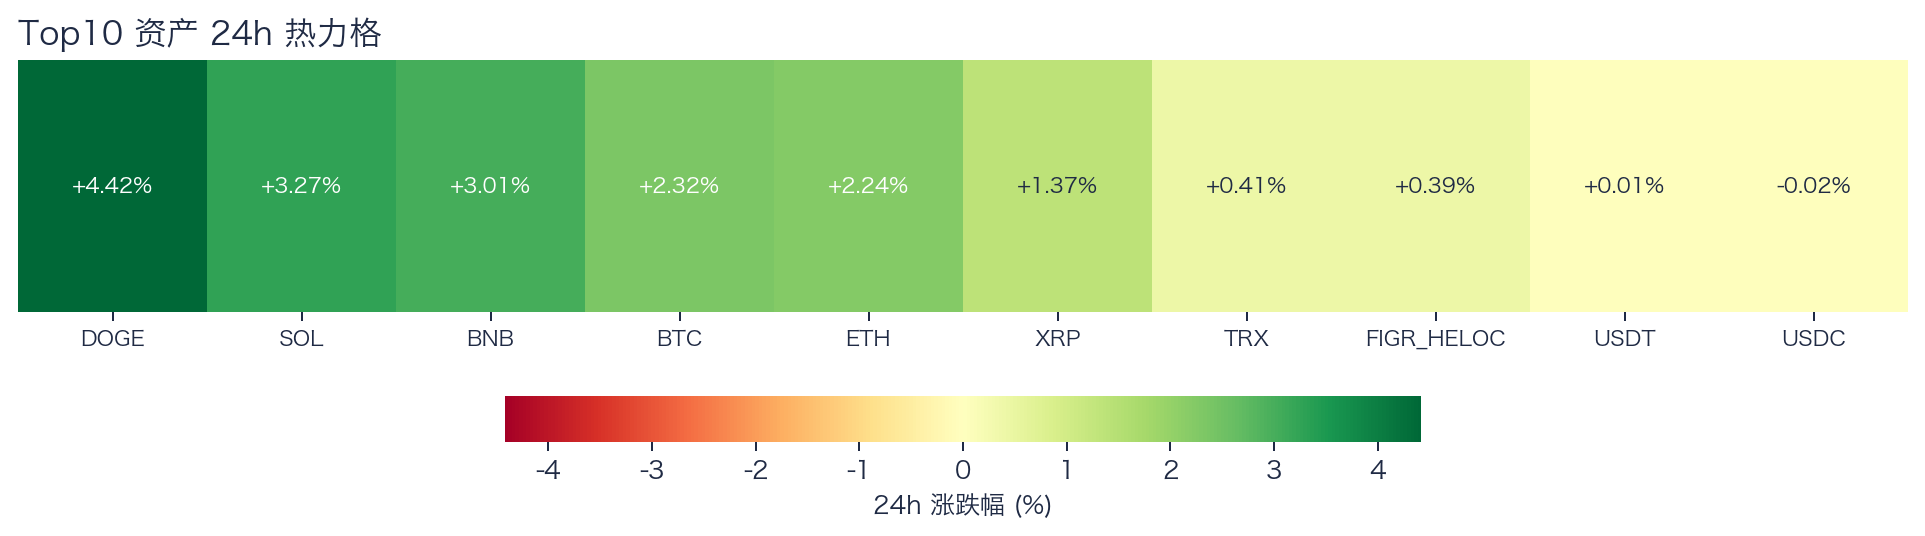
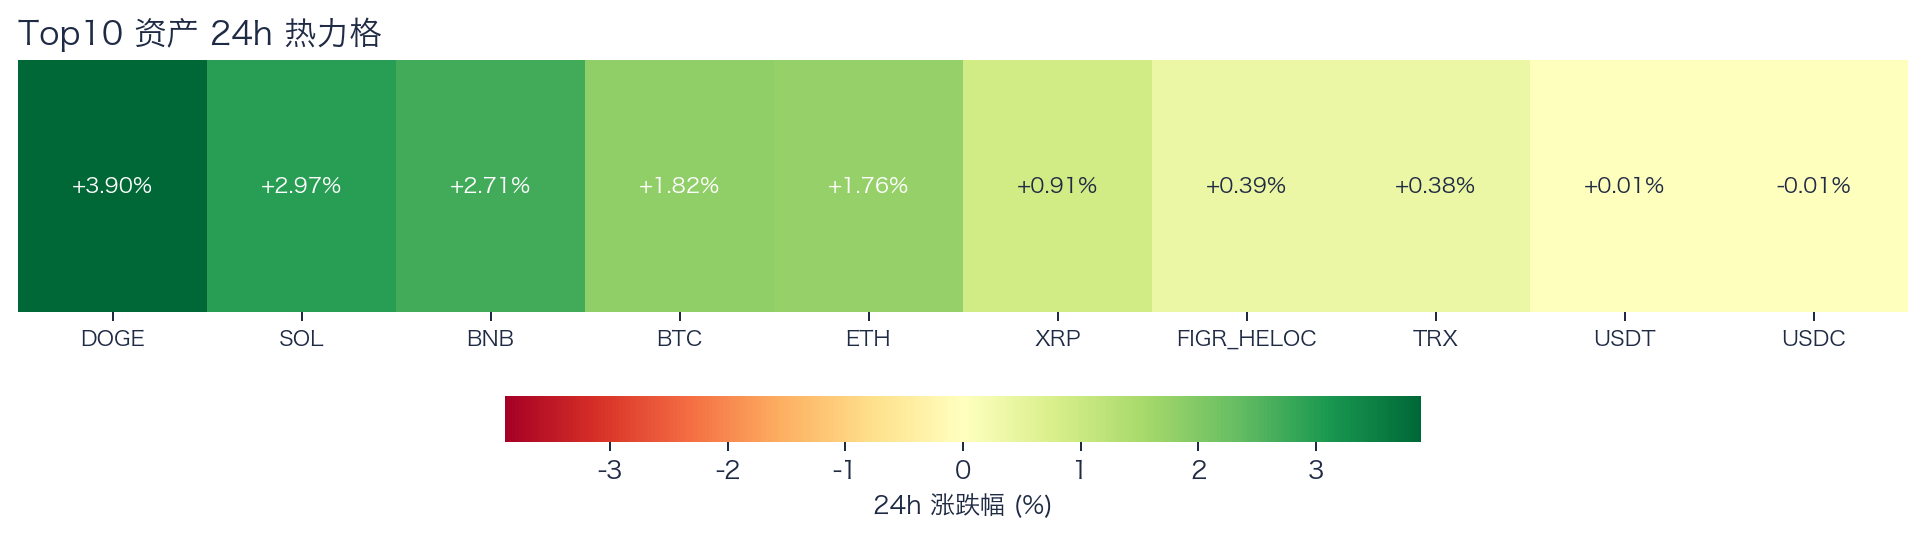
gitbook: add extra stablecoin aave-vs-peers chart

diff --git a/gitbook/daily/2026-03-25/README.md b/gitbook/daily/2026-03-25/README.md
@@ -2,25 +2,27 @@
 
 ## 关键结论
 - 全市场市值 $2.42T（24h -0.37%），成交额 $95.66B（24h -23.30%）。
-- BTC 主导率 58.35%（-0.10pct），Top10 外占比 7.28%。
-- Top10 资产上涨 9 / 下跌 1，平均涨跌幅 +1.74%，首尾分化 4.44pct。
-- 衍生品：BTC/ETH 资金费率分别为 +0.16bps / +0.00bps，DVOL 收盘 51.09 / 73.25。
+- BTC 主导率 58.35%（-0.10pct），Top10 外占比 7.39%。
+- Top10 资产上涨 9 / 下跌 1，平均涨跌幅 +1.48%，首尾分化 3.91pct。
+- 衍生品：部分数据缺失。
 
 ## 今日盘面判断
 如果只用一句话概括今天的市场，关键词是 `Defensive Drift`。价格与成交同步走弱，属于防守型下移结构，短线以控制回撤为主。广度仍偏窄，增量风险偏好尚未形成持续外溢。这意味着短线虽然有可交易的弹性，但要把它理解成新一轮趋势启动，证据还不够。
 
 ## 核心驱动因素
-从流动性结构看，多数平台成交回暖，短线流动性环境较前一日改善；从杠杆维度看，杠杆拥挤度整体可控；在风险定价层面，期权端对尾部波动的定价仍偏谨慎；再结合情绪仍在恐惧区，反弹更容易受到外部事件扰动。整体来看，盘面更像是修复中的高波动环境，而不是低波动顺趋势环境。
+从流动性结构看，平台流量呈分化状态，头部与非头部恢复节奏不一致；从杠杆维度看，杠杆拥挤度整体可控；在风险定价层面，期权端对尾部波动的定价仍偏谨慎；再结合情绪仍在恐惧区，反弹更容易受到外部事件扰动。整体来看，盘面更像是修复中的高波动环境，而不是低波动顺趋势环境。
 
 ## BTC/ETH 24h 趋势判断
 ![BTC/ETH 24h价格路径](charts/chart_btc_eth_24h_trend.png)
 
-- BTC：$71,398.20（24h +2.62%，区间 $68,923.07 - $72,026.09，当前位于区间 80%）=> 偏强，上行主导。
-- ETH：$2,179.12（24h +2.64%，区间 $2,103.02 - $2,199.02，当前位于区间 79%）=> 偏强，上行主导。
+- BTC：$71,262.02（24h +1.80%，区间 $68,923.07 - $72,026.09，当前位于区间 75%）=> 偏强震荡。
+- ETH：$2,175.11（24h +1.73%，区间 $2,103.02 - $2,199.02，当前位于区间 75%）=> 偏强震荡。
 - 简评：BTC 与 ETH 同步偏强，短线仍有上行动能。
 
 ## 稳定币收益情况（链上协议）
 ![稳定币收益快照](charts/chart_stablecoin_yield_snapshot.png)
+
+![Aave与主流协议收益对比](charts/chart_stablecoin_aave_vs_peers.png)
 
 按安全优先（协议成熟度、链层风险、是否依赖激励）筛选了 10 个主流池；原生供给利率均值约 +2.02%。
 其中包含奖励补贴的池有 1 个，补贴收益已单列，不与原生利率混合。
@@ -32,13 +34,13 @@
 
 风险提示
 - 利用率达到 70% 以上的池有 3 个，杠杆需求主要集中在头部池。
-- 利用率最高样本：Aave-USDC（Ethereum） 75.42%，Borrow APY 3.33%。
+- 利用率最高样本：Aave-USDC（Ethereum） 75.44%，Borrow APY 3.33%。
 - 奖励收益池数量：1 个。当前收益主体仍以原生利率为主。
 
 重点池（摘要）
 - Spark-USDT（Ethereum）：Total 3.44% / TVL $658.16M / Utilization N/A。
 - Compound-USDC（Ethereum）：Total 2.56% / TVL $120.03M / Utilization N/A。
-- Aave-USDC（Base）：Total 2.31% / TVL $105.17M / Utilization 71.65%。
+- Aave-USDC（Base）：Total 2.31% / TVL $105.17M / Utilization 71.68%。
 
 交易含义：当前稳定币收益更偏“头部池中等收益 + 局部高利用率”结构，策略上优先流动性与透明度，再考虑收益增强。
 部分协议未公开借款侧与利用率口径，报告仅展示可验证数据。
@@ -47,8 +49,8 @@
 ![非DeFi期现快照](charts/chart_nondefi_carry_snapshot.png)
 
 样本范围覆盖 Binance 与 OKX 的 BTC/ETH 现货与永续，用于观察 funding 与 basis 的当期结构。
-- Funding 最高样本：Binance-BTC，年化约 4.05%。
-- Funding 最低样本：OKX-ETH，年化约 -8.60%。
+- Funding 最高样本：Binance-BTC，年化约 4.33%。
+- Funding 最低样本：OKX-ETH，年化约 -7.38%。
 - Basis 偏离最大：Binance-ETH，相对指数约 -0.04%。
 - 交易含义：当 funding 年化显著高于 basis 且持续为正，carry 交易更偏向收取 funding；若 basis 与 funding 同步回落，需降低杠杆并关注资金回流速度。
 该部分与链上收益分开统计，便于比较两类策略的收益与风险结构。
@@ -67,34 +69,34 @@
 ## 主导率与市场广度
 ![市场广度快照](charts/chart_market_breadth_snapshot.png)
 
-当前结构为 BTC 58.35% / Top2-10 34.37% / Top10 外 7.28%。长尾占比仍偏低，广度修复还未形成持续趋势。
+当前结构为 BTC 58.35% / Top2-10 34.27% / Top10 外 7.39%。长尾占比仍偏低，广度修复还未形成持续趋势。
 Top10 外占比处于低位，风险偏好仍主要停留在 BTC 与头部资产。换句话说，资金目前更愿意在高流动性的核心资产里做仓位调整，而不是大面积扩散到长尾资产。
 
 ## 资产与交易所资金流
 ![Top10资产24h表现](charts/chart_top10_assets_24h.png)
 
-Top10 中领涨 DOGE（+4.42%），尾部 USDC（-0.02%），均值 +1.74%。分化 4.44pct，结构性交易仍是主导。
+Top10 中领涨 DOGE（+3.90%），尾部 USDC（-0.01%），均值 +1.48%。分化 3.91pct，结构性交易仍是主导。
 上涨家数明显占优，但首尾分化仍大，表明反弹并非无差别普涨。对交易而言，这通常意味着“选币”比“全市场方向”更重要，错配带来的收益差会明显放大。
 
 ![前排交易所24h变化](charts/chart_exchange_24h_change.png)
 
-前排样本上涨 8 家、下跌 2 家，均值 -4.40%。Coinbase Exchange 最强（+13.60%），KuCoin 最弱（-72.79%）。
-最强与最弱平台的 24h 变化差达到 86.38pct，说明流动性仍在选择性回流，头部平台的价格发现能力更强。当平台间流量分化明显时，报价连续性和滑点表现会同步分化，执行层面要更关注成交质量。
+前排样本上涨 5 家、下跌 5 家，均值 -7.94%。Coinbase Exchange 最强（+9.98%），KuCoin 最弱（-72.92%）。
+最强与最弱平台的 24h 变化差达到 82.90pct，说明流动性仍在选择性回流，头部平台的价格发现能力更强。当平台间流量分化明显时，报价连续性和滑点表现会同步分化，执行层面要更关注成交质量。
 
 ![交易所现货衍生品结构](charts/chart_exchange_spot_deriv_structure.png)
 
-样本内衍生品成交占比 85.60%。若该占比继续走高且 funding 不同步回落，短线波动脉冲通常会增强。
+样本内衍生品成交占比 85.56%。若该占比继续走高且 funding 不同步回落，短线波动脉冲通常会增强。
 衍生品占比处于高位，行情更容易出现脉冲式放大，风控阈值建议偏保守。这也是为什么同样的消息面在当前阶段更容易被放大成大振幅走势。
 
 ## 衍生品与情绪
 ![衍生品快照](charts/chart_derivatives_snapshot.png)
 
-资金费率（Funding）仍在中性附近，BTC/ETH 分别 +0.16bps / +0.00bps；未平仓合约（OI）为 $957.64M / $286.48M；隐含波动率指数（DVOL）位于 Neutral（中性波动定价） / Panic（高波动溢价）。
-资金费率接近中性，说明方向拥挤度有限；但 DVOL 仍偏高，市场对突发波动仍保留保险溢价。因此更合适的做法不是激进追单边，而是围绕波动管理仓位和节奏。
+衍生品关键指标有缺口，当前解读以可得数据为准。
+Funding 与 DVOL 的组合显示，方向拥挤暂未极端，但尾部风险定价仍未完全回落。因此更合适的做法不是激进追单边，而是围绕波动管理仓位和节奏。
 
 ![情绪与波动当日快照](charts/chart_sentiment_snapshot.png)
 
-恐惧与贪婪指数（F&G）当日 14（较前日 +3）；配合 BTC/ETH DVOL 51.09/73.25，当前更像情绪修复中的高波动区。
+恐惧与贪婪指数（F&G）当日 14（较前日 +3）；配合 BTC/ETH DVOL 51.04/73.16，当前更像情绪修复中的高波动区。
 恐惧区内出现边际改善，说明市场开始试探修复，但尚不足以支持激进风险暴露。只有当情绪、广度和成交三者同时改善，市场才更可能从“反弹交易”切换到“趋势交易”。
 
 ## 未来24小时观察
@@ -106,4 +108,7 @@ Top10 中领涨 DOGE（+4.42%），尾部 USDC（-0.02%），均值 +1.74%。分
 - 仓位管理优先级高于方向押注，建议保持核心仓位稳定、战术仓位滚动。
 - 若交易所衍生品占比继续上升，建议同步收紧杠杆和止损参数。
 - 关注情绪改善与广度扩散是否同步发生，二者背离时避免追逐单边。
+
+## 数据缺口（Data Gaps）
+- Deribit ticker BTC-PERPETUAL 获取失败: <urlopen error _ssl.c:1112: The handshake operation timed out>
 
